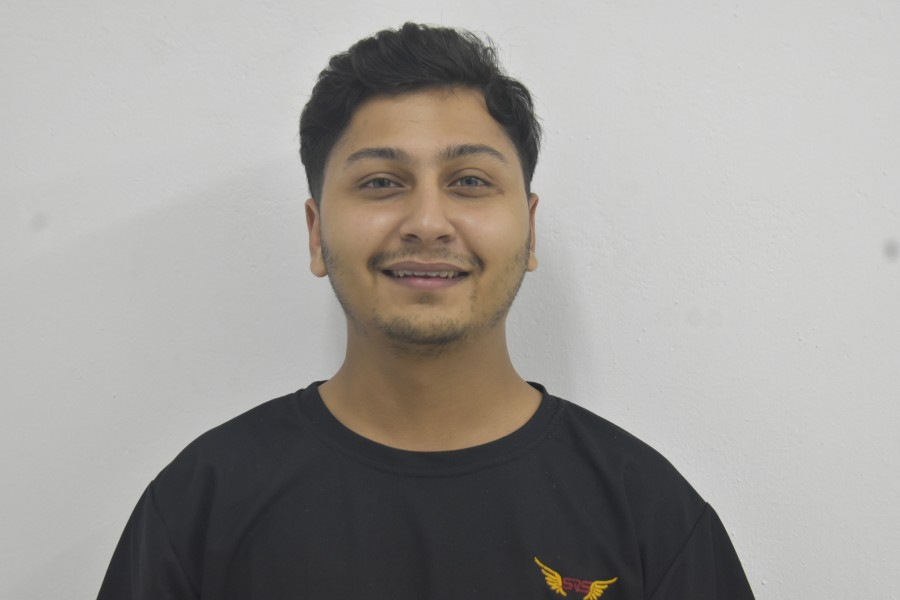
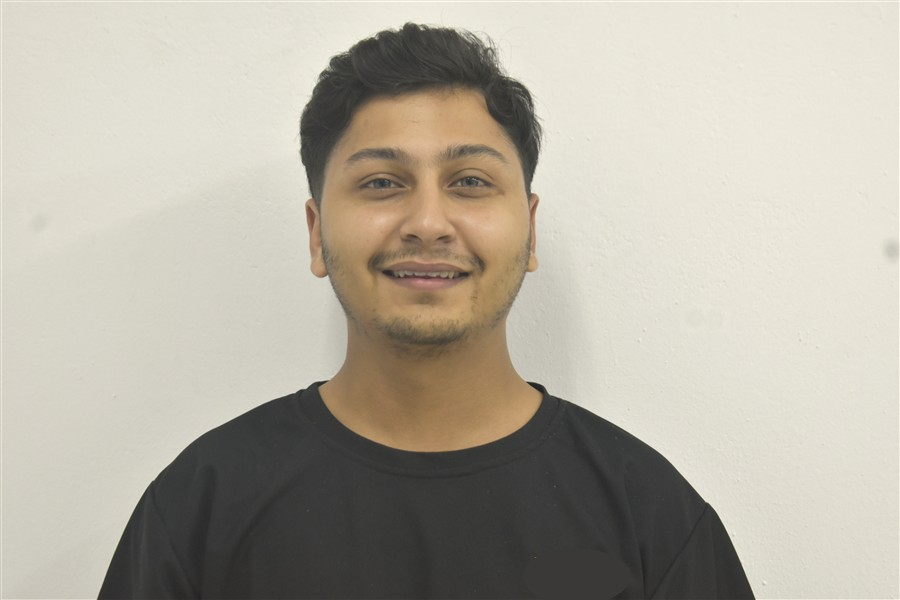
Retouch profile photo and make it smaller on phones

diff --git a/src/App.css b/src/App.css
@@ -924,3 +924,8 @@
 .contact-footer span { font-size: 16px; }
 .mp-tab { font-size: 16px; }
 .project-thumb { object-position: top; }
+
+/* ========= HERO PHOTO SIZE ========= */
+.hero-photo { display: block; width: 360px; height: 360px; max-width: 100%; border-radius: 16px; object-fit: cover; object-position: center 30%; }
+@media (max-width: 768px) { .hero-photo { width: 240px; height: 240px; } }
+@media (max-width: 400px) { .hero-photo { width: 200px; height: 200px; } }

diff --git a/src/App.jsx b/src/App.jsx
@@ -111,7 +111,7 @@ function Hero() {
             <img
               src="/images/profile-photo.jpg"
               alt="Subash Katwal"
-              style={{ borderRadius: '16px', width: '360px', height: '360px', maxWidth: '100%', objectFit: 'cover', objectPosition: 'center 30%', display: 'block' }}
+              className="hero-photo"
             />
           </div>
         </div>
